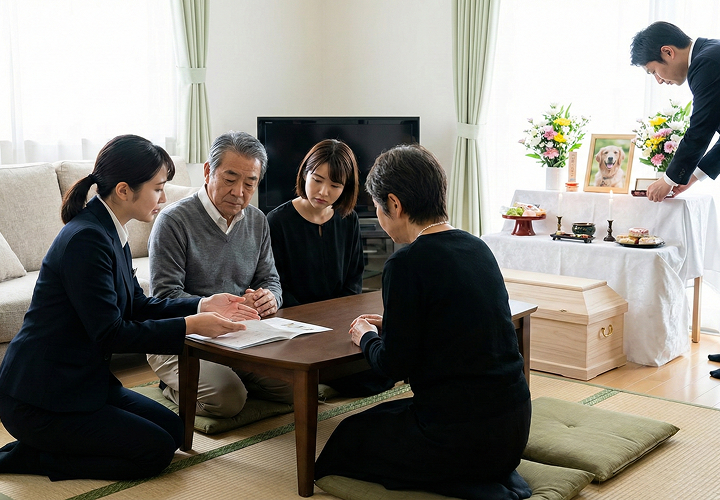
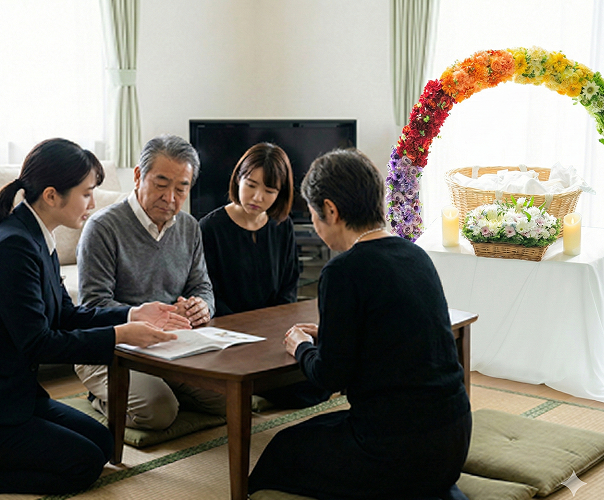
fix : セレモニーページ修正

diff --git a/template-parts/pages/service-ceremony.php b/template-parts/pages/service-ceremony.php
@@ -57,7 +57,9 @@
               <img src="<?php echo get_template_directory_uri(); ?>/img/page-ceremony/ceremony-sec3-1.png" alt="">
             </div>
             <h2 class="page-s-ceremony__card-ttl">セレモニープランA</h2>
-            <p class="page-s-ceremony__card-txt">花籠を用いた、やさしく温かな飾り付けのセレモニーです。<br>コンパクトながらもお花に囲まれた空間で、静かにお別れいただけます。</p>
+            <p class="page-s-ceremony__card-txt">
+              たくさんの愛をくれた存在へ「ありがとう」を——そんな想いを込めたセレモニープランです。
+            </p>
             <p class="page-s-ceremony__card-price">55,000円 <small>（税込）〜
               </small></p>
 
@@ -74,7 +76,9 @@
               <img src="<?php echo get_template_directory_uri(); ?>/img/page-ceremony/ceremony-sec3-5.png" alt="">
             </div>
             <h2 class="page-s-ceremony__card-ttl">セレモニープランB</h2>
-            <p class="page-s-ceremony__card-txt">アーチ型のフラワー装飾を用いた、より華やかなセレモニーです。<br>その子らしさや、ご家族の想いを表現した特別な空間を演出します。</p>
+            <p class="page-s-ceremony__card-txt">
+              虹の向こうでまた会える——そんな願いを込めたセレモニープランです。
+            </p>
             <p class="page-s-ceremony__card-price">55,000<small>円（税込）〜</small></p>
             <p class="page-s-ceremony__card-price--sub">セレモニーと火葬をセットで行う場合は、<br><strong>3,300</strong><small>円（税込）</small>引かせていただきます。</p>
             <?php get_template_part('template-parts/parts/parts-btn', null, [
@@ -116,7 +120,7 @@
               get_template_part('/template-parts/parts/parts-tel--primary')
               ?>
               <p class="page-s-ceremony__card-txt--sub">
-                お問い合わせ受付時間：9:00~20:00<br class="hidden-pc">
+                電話受付時間：9:00~22:00<br class="hidden-pc">
                 定休日：年中無休（年末年始を除く）
               </p>
             </div>
